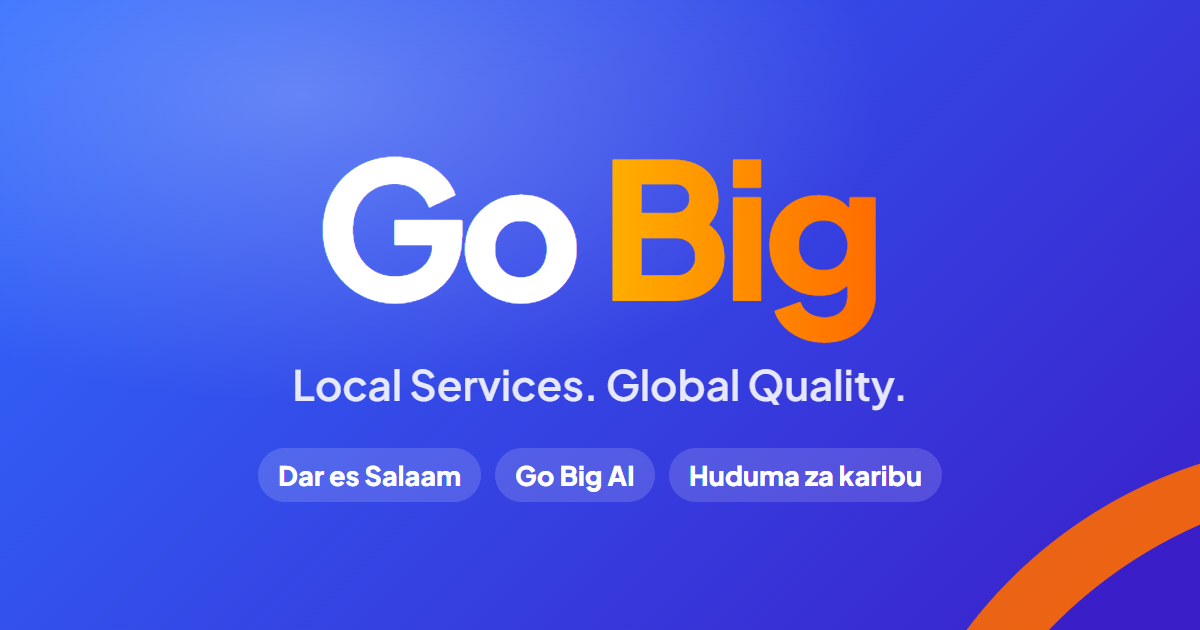
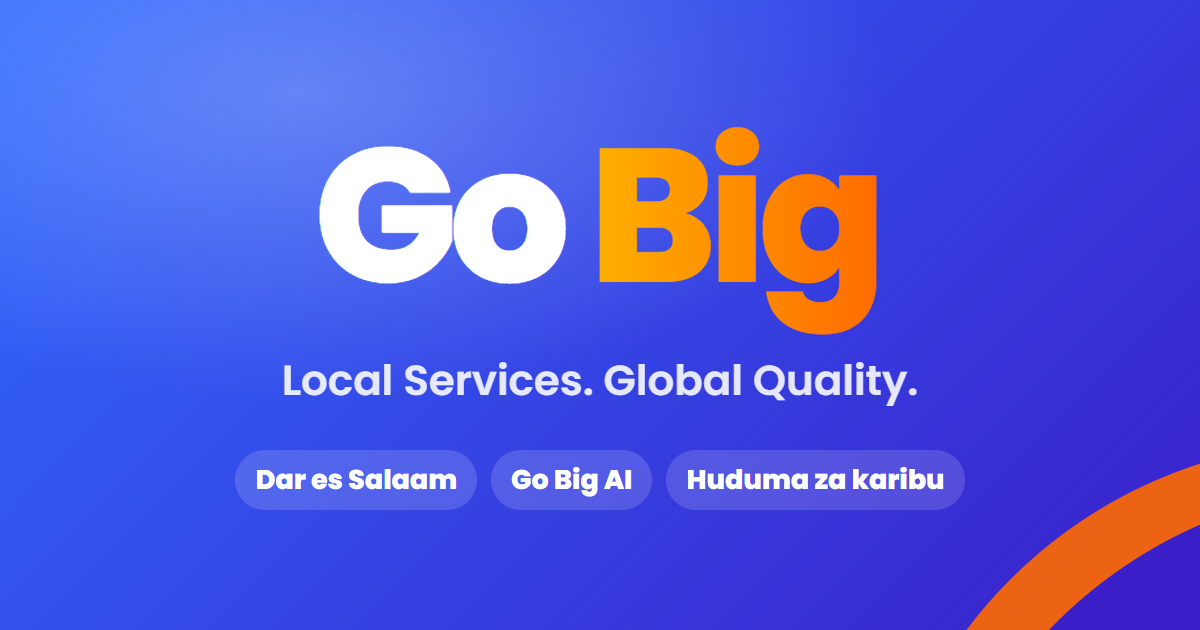
Poppins font, full-bleed hero photo with a light veil on phones, area menu fits narrow phones

Changed region(s): [[0.2467, 0.181, 0.74, 0.5429], [0.185, 0.6937, 0.8017, 0.8143], [0.2158, 0.573, 0.7708, 0.6635]]

diff --git a/components/home/Hero.tsx b/components/home/Hero.tsx
@@ -20,6 +20,12 @@ export function Hero({ t, districts, area, quick }: { t: Dictionary; districts: 
   ];
   return (
     <section className="relative -mx-4 -mt-6 overflow-hidden bg-gradient-to-b from-[#eef4ff] to-canvas px-4 pt-5 pb-6 sm:mx-0 sm:mt-0 sm:rounded-[2rem] sm:px-10 sm:pt-12 sm:pb-10 lg:min-h-[30rem]">
+      {/* Phones and tablets (owner, 2026-10-06): the waterfront fills the whole hero; a soft light veil
+          over the top keeps the words and search readable, and fades out so the photo shows below. */}
+      <div aria-hidden className="pointer-events-none absolute inset-0 lg:hidden">
+        <Image src="/hero-dar.webp" alt="" fill priority sizes="100vw" className="object-cover object-[70%_center]" />
+        <div className="absolute inset-0 bg-gradient-to-b from-canvas/92 via-canvas/65 via-50% to-canvas/0" />
+      </div>
       {/* Large screens: the waterfront fills the right half behind a curved edge. */}
       <div aria-hidden className="pointer-events-none absolute inset-y-0 right-0 hidden w-[52%] lg:block">
         <Image src="/hero-dar.webp" alt="" fill priority sizes="55vw" className="object-cover object-right [clip-path:ellipse(92%_120%_at_100%_50%)]" />
@@ -90,10 +96,8 @@ export function Hero({ t, districts, area, quick }: { t: Dictionary; districts: 
           })}
         </ul>
 
-        {/* Phones and tablets (owner, 2026-10-01): the words first, then the photo below them, in full. */}
-        <div aria-hidden className="relative mt-5 h-44 overflow-hidden rounded-3xl shadow-soft sm:h-64 lg:hidden">
-          <Image src="/hero-dar.webp" alt="" fill priority sizes="100vw" className="object-cover object-right" />
-        </div>
+        {/* Room at the bottom for the photo to show clearly (phones and tablets). */}
+        <div aria-hidden className="h-36 sm:h-52 lg:hidden" />
 
         <ul className="mt-6 hidden flex-wrap gap-x-6 gap-y-3 sm:flex">
           {trust.map(({ Icon, title, sub }, i) => (

diff --git a/scripts/brand/icons.ts b/scripts/brand/icons.ts
@@ -1,7 +1,7 @@
 // Go Big brand assets — words only (owner, 2026-10-06: "kusiwe na icon, just words").
 //   npx tsx scripts/brand/icons.ts
 // Every image is the wordmark "Go Big" ("Big" in the orange gradient), drawn in the installed Chrome
-// so it uses the app's real font (Plus Jakarta Sans). Writes: app/icon.png (browser tab),
+// so it uses the app's real font (Poppins). Writes: app/icon.png (browser tab),
 // app/apple-icon.png (iPhone), public/icons/* (PWA / Android / TWA, incl. maskable + monochrome +
 // notification badge), app/opengraph-image.png + twitter-image.png (link previews), the Play Store
 // listing graphics in docs/store/, and transparent wordmark files in design/logo/.
@@ -14,9 +14,9 @@ const CHROME = process.env.QA_CHROME ?? "C:/Program Files/Google/Chrome/Applicat
 
 export const COLORS = { blue: "#2f6bff", indigo: "#3a1fc9", orange: "#ff6a00", amber: "#ffb000", ink: "#0b1b33" };
 
-const FONT = `<link href="https://fonts.googleapis.com/css2?family=Plus+Jakarta+Sans:wght@600;800&display=block" rel="stylesheet">`;
+const FONT = `<link href="https://fonts.googleapis.com/css2?family=Poppins:wght@600;800&display=block" rel="stylesheet">`;
 const BASE_CSS = `*{margin:0;box-sizing:border-box} html,body{overflow:hidden;background:transparent}
-  body{font-family:'Plus Jakarta Sans',sans-serif}
+  body{font-family:'Poppins',sans-serif}
   .w{font-weight:800;letter-spacing:-.045em;line-height:.86}
   .big{background:linear-gradient(90deg,${COLORS.amber},${COLORS.orange});-webkit-background-clip:text;background-clip:text;color:transparent;padding:0 .04em .16em 0;margin-bottom:-.16em;display:inline-block;line-height:1}
   .tile{background:linear-gradient(135deg,${COLORS.blue},${COLORS.indigo});position:relative;overflow:hidden}

diff --git a/app/layout.tsx b/app/layout.tsx
@@ -1,5 +1,5 @@
 import type { Metadata, Viewport } from "next";
-import { Plus_Jakarta_Sans } from "next/font/google";
+import { Poppins } from "next/font/google";
 import { I18nProvider } from "@/lib/i18n/I18nProvider";
 import { publicDictionary } from "@/lib/i18n/clientDictionary";
 import { cookies } from "next/headers";
@@ -7,8 +7,8 @@ import { getServerDictionary } from "@/lib/i18n/server";
 import { parseTheme, THEME_COOKIE } from "@/lib/theme";
 import "./globals.css";
 
-// The approved design (2026-09-26) uses Plus Jakarta Sans throughout.
-const sans = Plus_Jakarta_Sans({ subsets: ["latin"], variable: "--font-app" });
+// Poppins throughout (owner, 2026-10-06: the earlier font wasn't attractive enough).
+const sans = Poppins({ subsets: ["latin"], weight: ["400", "500", "600", "700", "800"], variable: "--font-app", display: "swap" });
 
 export async function generateMetadata(): Promise<Metadata> {
   const { t } = await getServerDictionary();

diff --git a/components/discovery/AreaPicker.tsx b/components/discovery/AreaPicker.tsx
@@ -44,7 +44,7 @@ export function AreaPicker({
     <label
       className={`relative flex items-center text-ink ${
         pill
-          ? "min-h-9 max-w-44 gap-1 rounded-full bg-surface/80 px-2.5 hover:bg-surface"
+          ? "min-h-9 min-w-0 max-w-32 gap-1 rounded-full bg-surface/80 px-2.5 hover:bg-surface sm:max-w-44"
           : `gap-2 rounded-xl border border-line bg-surface px-3 shadow-soft ${compact ? "min-h-10" : "min-h-12"}`
       } ${pending ? "opacity-60" : ""}`}
     >

diff --git a/docs/DECISIONS.md b/docs/DECISIONS.md
@@ -813,3 +813,12 @@ monochrome, notification badge, Play Store) is the words "Go" over "Big" on the 
 the link previews and Play Store banner use the wordmark large. `scripts/brand/icons.ts` draws them in
 Chrome with the app's font; transparent wordmark files for print are in `design/logo/`. Supersedes the
 icon mark in ADR-071 (the platform set and manifest from ADR-071 stay).
+
+## ADR-073 — Poppins, and the photo fills the phone hero (2026-10-06)
+
+The owner found the font unattractive: the app now uses Poppins (400–800) everywhere, and the app
+icons and store art are redrawn in it. On phones and tablets the Dar es Salaam waterfront now fills
+the whole hero; a light veil (the page colour, 92% → 65% → clear) over the top keeps the heading,
+search and chips readable and fades out so the photo shows fully below. Large screens keep the
+photo on the right with the curved edge. The header's area menu now shrinks on narrow phones so it
+never covers the language switch.
